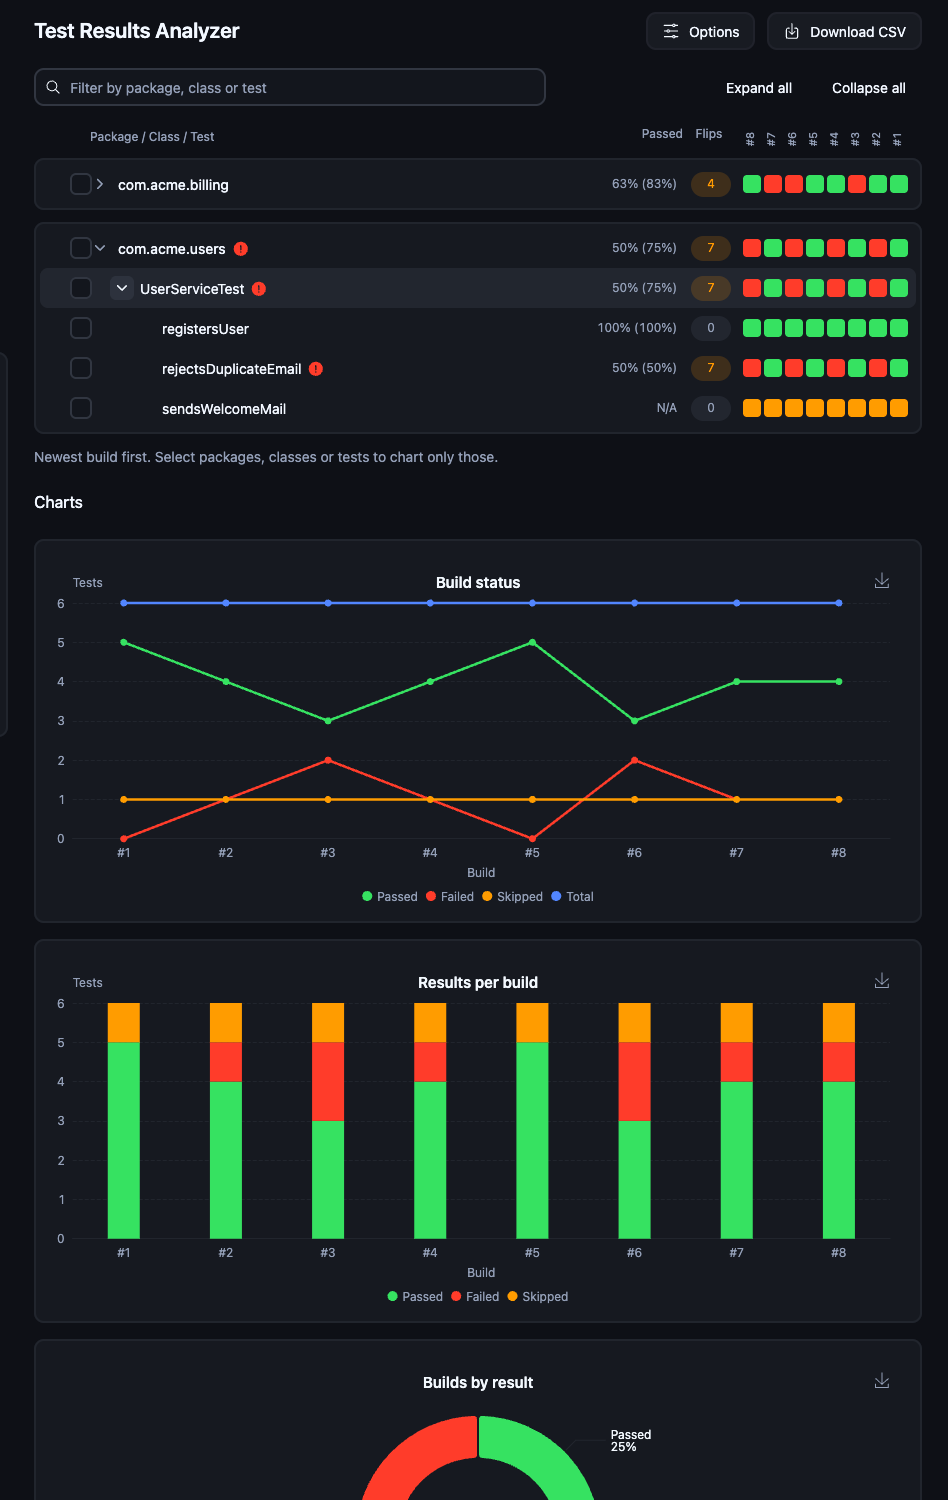
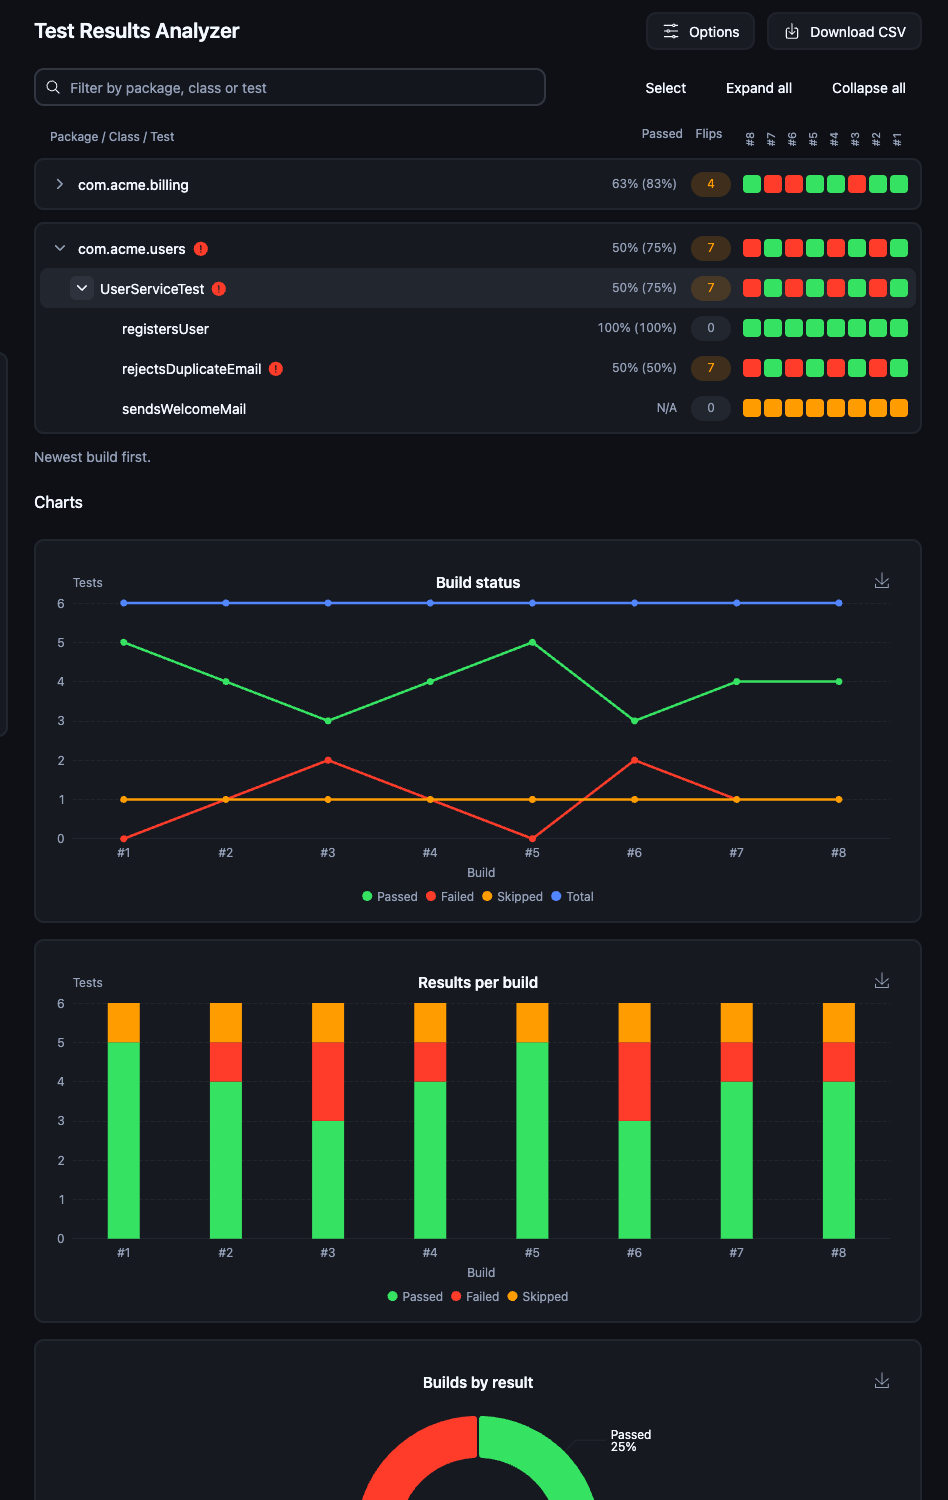
Hide row checkboxes until rows are being selected
Most people chart everything, so the checkboxes were clutter and crowded
the expand arrows. A Select toggle in the toolbar now shows them; Done
hides them again and clears the selection so charts are never filtered
by checkboxes that are not visible. Also stop overriding the core
checkbox label padding, which pushed the tick outside the box.

Claude-Session: https://claude.ai/code/session_019qYu63qLKBK5uCunsY3mb2

Changed region(s): [[0.0612, 0.1227, 0.3059, 0.276], [0.0612, 0.092, 0.1224, 0.1227]]

diff --git a/src/main/webapp/js/analyzer.js b/src/main/webapp/js/analyzer.js
@@ -1128,6 +1128,29 @@
     });
   }
 
+  /** Shows or hides the row checkboxes; leaving selection mode clears the selection. */
+  function setSelecting(selecting) {
+    var toggle = byId("tra-select-toggle");
+    toggle.setAttribute("aria-pressed", selecting ? "true" : "false");
+    toggle.textContent = selecting ? toggle.dataset.labelDone : toggle.dataset.labelSelect;
+    byId("tra-history").classList.toggle("tra-history-container--selecting", selecting);
+    byId("tra-legend-default").hidden = selecting;
+    byId("tra-legend-selecting").hidden = !selecting;
+    if (!selecting) {
+      var cleared = false;
+      state.rows.forEach(function (row) {
+        if (checkboxOf(row).checked) {
+          checkboxOf(row).checked = false;
+          cleared = true;
+        }
+      });
+      if (cleared) {
+        state.pieOverride = null;
+        renderCharts();
+      }
+    }
+  }
+
   function debounce(fn, wait) {
     var timer = null;
     return function () {
@@ -1173,6 +1196,9 @@
     });
     byId("tra-apply").addEventListener("click", load);
     byId("tra-download-csv").addEventListener("click", downloadCsv);
+    byId("tra-select-toggle").addEventListener("click", function (event) {
+      setSelecting(event.currentTarget.getAttribute("aria-pressed") !== "true");
+    });
     byId("tra-expand-all").addEventListener("click", expandAll);
     byId("tra-collapse-all").addEventListener("click", function () {
       byId("tra-filter").value = "";

diff --git a/src/main/webapp/css/analyzer.css b/src/main/webapp/css/analyzer.css
@@ -110,8 +110,19 @@
   align-items: center;
   column-gap: 0.75rem;
   display: grid;
+  grid-template-areas: "name stats strip";
+  grid-template-columns: minmax(12rem, 1fr) auto auto;
+}
+
+/* Checkboxes only show while selecting rows to chart */
+.tra-history-container:not(.tra-history-container--selecting) .tra-row__select {
+  display: none;
+}
+
+.tra-history-container--selecting .tra-history__header,
+.tra-history-container--selecting .tra-row {
   grid-template-areas: "select name stats strip";
-  grid-template-columns: 1.75rem minmax(12rem, 1fr) auto auto;
+  grid-template-columns: 2rem minmax(12rem, 1fr) auto auto;
 }
 
 .tra-history__header {
@@ -162,11 +173,6 @@
 
 .tra-row__select {
   grid-area: select;
-}
-
-.tra-row .jenkins-checkbox label {
-  min-height: 1.375rem;
-  padding-left: 1.375rem;
 }
 
 .tra-row__name {
@@ -359,10 +365,17 @@ a.tra-build:focus-visible {
 
   .tra-row {
     grid-template-areas:
+      "name name"
+      "stats strip";
+    grid-template-columns: auto minmax(0, 1fr);
+    row-gap: 0.375rem;
+  }
+
+  .tra-history-container--selecting .tra-row {
+    grid-template-areas:
       "select name name"
       ". stats strip";
-    grid-template-columns: 1.75rem auto minmax(0, 1fr);
-    row-gap: 0.375rem;
+    grid-template-columns: 2rem auto minmax(0, 1fr);
   }
 
   .tra-row__name {

diff --git a/src/test/java/org/jenkinsci/plugins/testresultsanalyzer/AnalyzerPageTest.java b/src/test/java/org/jenkinsci/plugins/testresultsanalyzer/AnalyzerPageTest.java
@@ -74,6 +74,12 @@ class AnalyzerPageTest {
                 "//div[@id='tra-history']//div[contains(concat(' ', @class, ' '), ' tra-row ')]");
     }
 
+    private static String checkedRows(HtmlPage page) {
+        return page.executeJavaScript("String(document.querySelectorAll('.tra-row-select:checked').length)")
+                .getJavaScriptResult()
+                .toString();
+    }
+
     private static List<String> visibleRowNames(HtmlPage page) {
         return rows(page).stream()
                 .filter(row -> !row.hasAttribute("hidden"))
@@ -150,5 +156,26 @@ class AnalyzerPageTest {
         List<DomElement> numbers = testB.getByXPath(".//span[contains(concat(' ', @class, ' '), ' tra-stat ')]");
         assertThat(numbers.get(0).getTextContent(), is("67% (67%)"));
         assertThat(numbers.get(1).getTextContent(), is("1"));
+    }
+
+    @Test
+    void selectModeShowsCheckboxesAndClearsSelectionWhenDone() throws Exception {
+        HtmlPage page = openAnalyzer();
+        DomElement history = page.getElementById("tra-history");
+        DomElement toggle = page.getElementById("tra-select-toggle");
+        assertThat(history.getAttribute("class"), not(containsString("tra-history-container--selecting")));
+
+        toggle.click();
+        assertThat(toggle.getAttribute("aria-pressed"), is("true"));
+        assertThat(history.getAttribute("class"), containsString("tra-history-container--selecting"));
+
+        HtmlInput checkbox = page.getFirstByXPath("//div[@data-name='com.example']//input[@type='checkbox']");
+        checkbox.setChecked(true);
+        assertThat(checkedRows(page), is("4"));
+
+        toggle.click();
+        assertThat(toggle.getAttribute("aria-pressed"), is("false"));
+        assertThat(history.getAttribute("class"), not(containsString("tra-history-container--selecting")));
+        assertThat(checkedRows(page), is("0"));
     }
 }

diff --git a/README.md b/README.md
@@ -21,7 +21,7 @@ side panel.
   passing and failing. A red marker flags a test that passed in the previous build and fails now.
 - **Filter**: type part of a package, class or test name to narrow the list.
 - **Charts**: line, stacked bar and pie charts of passes and failures per build, or of test run
-  times. Select rows to chart only those items. Click a build on the line chart to show it in the
+  times. Click **Select** and tick packages, classes or tests to chart only those. Click a build on the line chart to show it in the
   pie chart. Each chart can be saved as an image.
 - **Most broken tests**: the tests that failed most often, with links to the builds they failed in.
 - **Download CSV**: exports the visible history.
